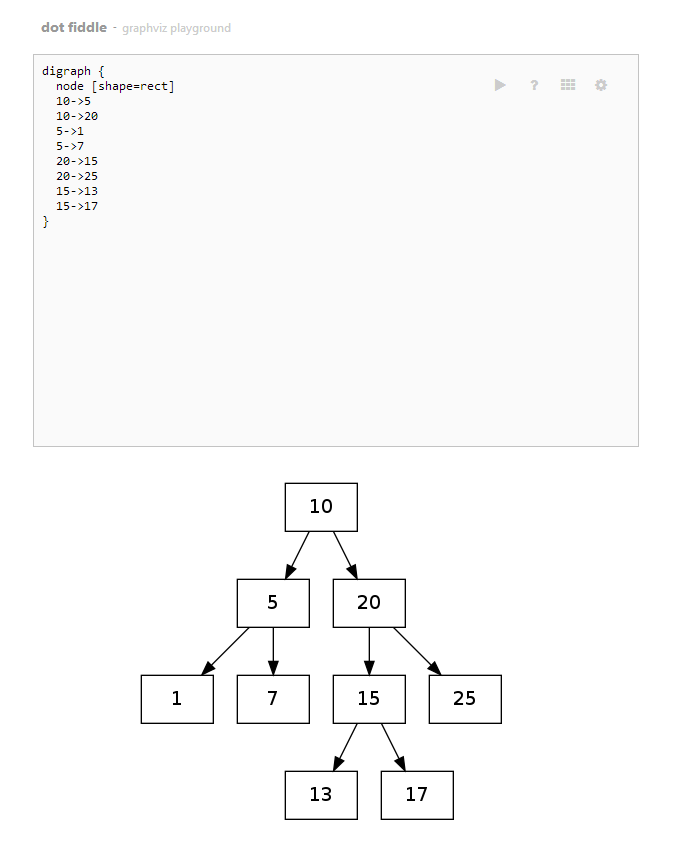
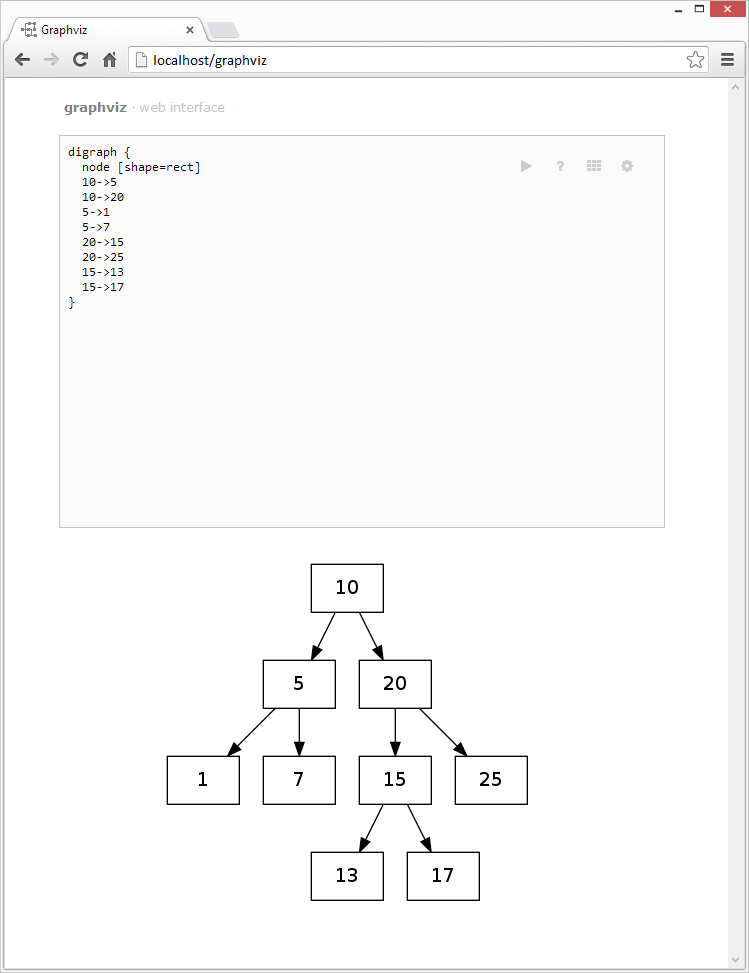
changes

Changed region(s): [[0.0, 0.0, 1.0, 1.0], [0.7778, 0.1529, 0.8089, 0.1835], [0.6844, 0.1529, 0.7156, 0.1835]]

diff --git a/controls.html b/controls.html
@@ -1,7 +1,7 @@
 <div id="controls" style=" position: absolute; width:18%; top: 20px; right: 20px;">
   <table  width="100%" border="0">
     <tr>
-      <td width="25%" style="text-align: center"><i id="play-control"    style="font-size: 0.9em; color:#ccc;" class="icon-play"></i></td>
+      <td width="25%" style="text-align: center"><i id="submit-control"  style="font-size: 0.9em; color:#ccc;" class="icon-play"></i></td>
       <td width="25%" style="text-align: center"><i id="help-control"    style="font-size: 0.9em; color:#ccc;" class="icon-question"></i></td>
       <td width="25%" style="text-align: center"><i id="gallery-control" style="font-size: 0.9em; color:#ccc;" class="icon-th"></i></td>
       <td width="25%" style="text-align: center"><i id="menu-control"    style="font-size: 0.9em; color:#ccc;" class="icon-cog"></i></td>
@@ -16,11 +16,11 @@ $("i").mouseenter(function(e) { $(this).css("color", "#999"); });
 $("i").mouseleave(function(e) { $(this).css("color", "#ccc"); });
 
 
-$("#play-control").click(function(e) {
-    graph_from_dot($("#main-code"),  $("#graphcell"));
+$("#submit-control").click(function(e) {
+    build_graph($("#main-code"),  $("#graphcell"));
 });
 
-$("#play-control"   ).tipsy({gravity: 's', title: function() {return "Submit";}});
+$("#submit-control" ).tipsy({gravity: 's', title: function() {return "Submit";}});
 $("#help-control"   ).tipsy({gravity: 's', title: function() {return "Help";}});
 $("#gallery-control").tipsy({gravity: 's', title: function() {return "Examples";}});
 $("#menu-control"   ).tipsy({gravity: 's', title: function() {return "Settings";}});

diff --git a/graphviz.js b/graphviz.js
@@ -11,7 +11,7 @@ function display_error(cell, err) {
     cell.html(error.replace("XXX", err));  
 }
 
-function graph_from_dot(textarea, cell) {
+function build_graph(textarea, cell) {
 
     var dot = $.trim(textarea.val());
 
@@ -21,7 +21,7 @@ function graph_from_dot(textarea, cell) {
     
     lastdot = dot;
     
-    cell.html("<span style='font-family: arial; font-size: 10px; color: #ccc'>Loading... </span>");
+    cell.html("<span class='loading'>Loading... </span>");
  
     $.ajax({
         url : "graphviz.php",

diff --git a/graphviz.css b/graphviz.css
@@ -33,6 +33,10 @@ html {
 	font-size: 12px;
 }
 
+.loading {
+    font-family: arial; font-size: 10px; color: #ccc;
+}
+
 .error {
     width=100%; 
     padding:6px;

diff --git a/README.md b/README.md
@@ -1,0 +1,9 @@
+Graphviz Web Interface
+======================
+
+The code here provides a web-interface for the Graphviz set of tools.
+
+Screenshot
+----------
+![alt text](graphviz.png "Screenshot")
+
